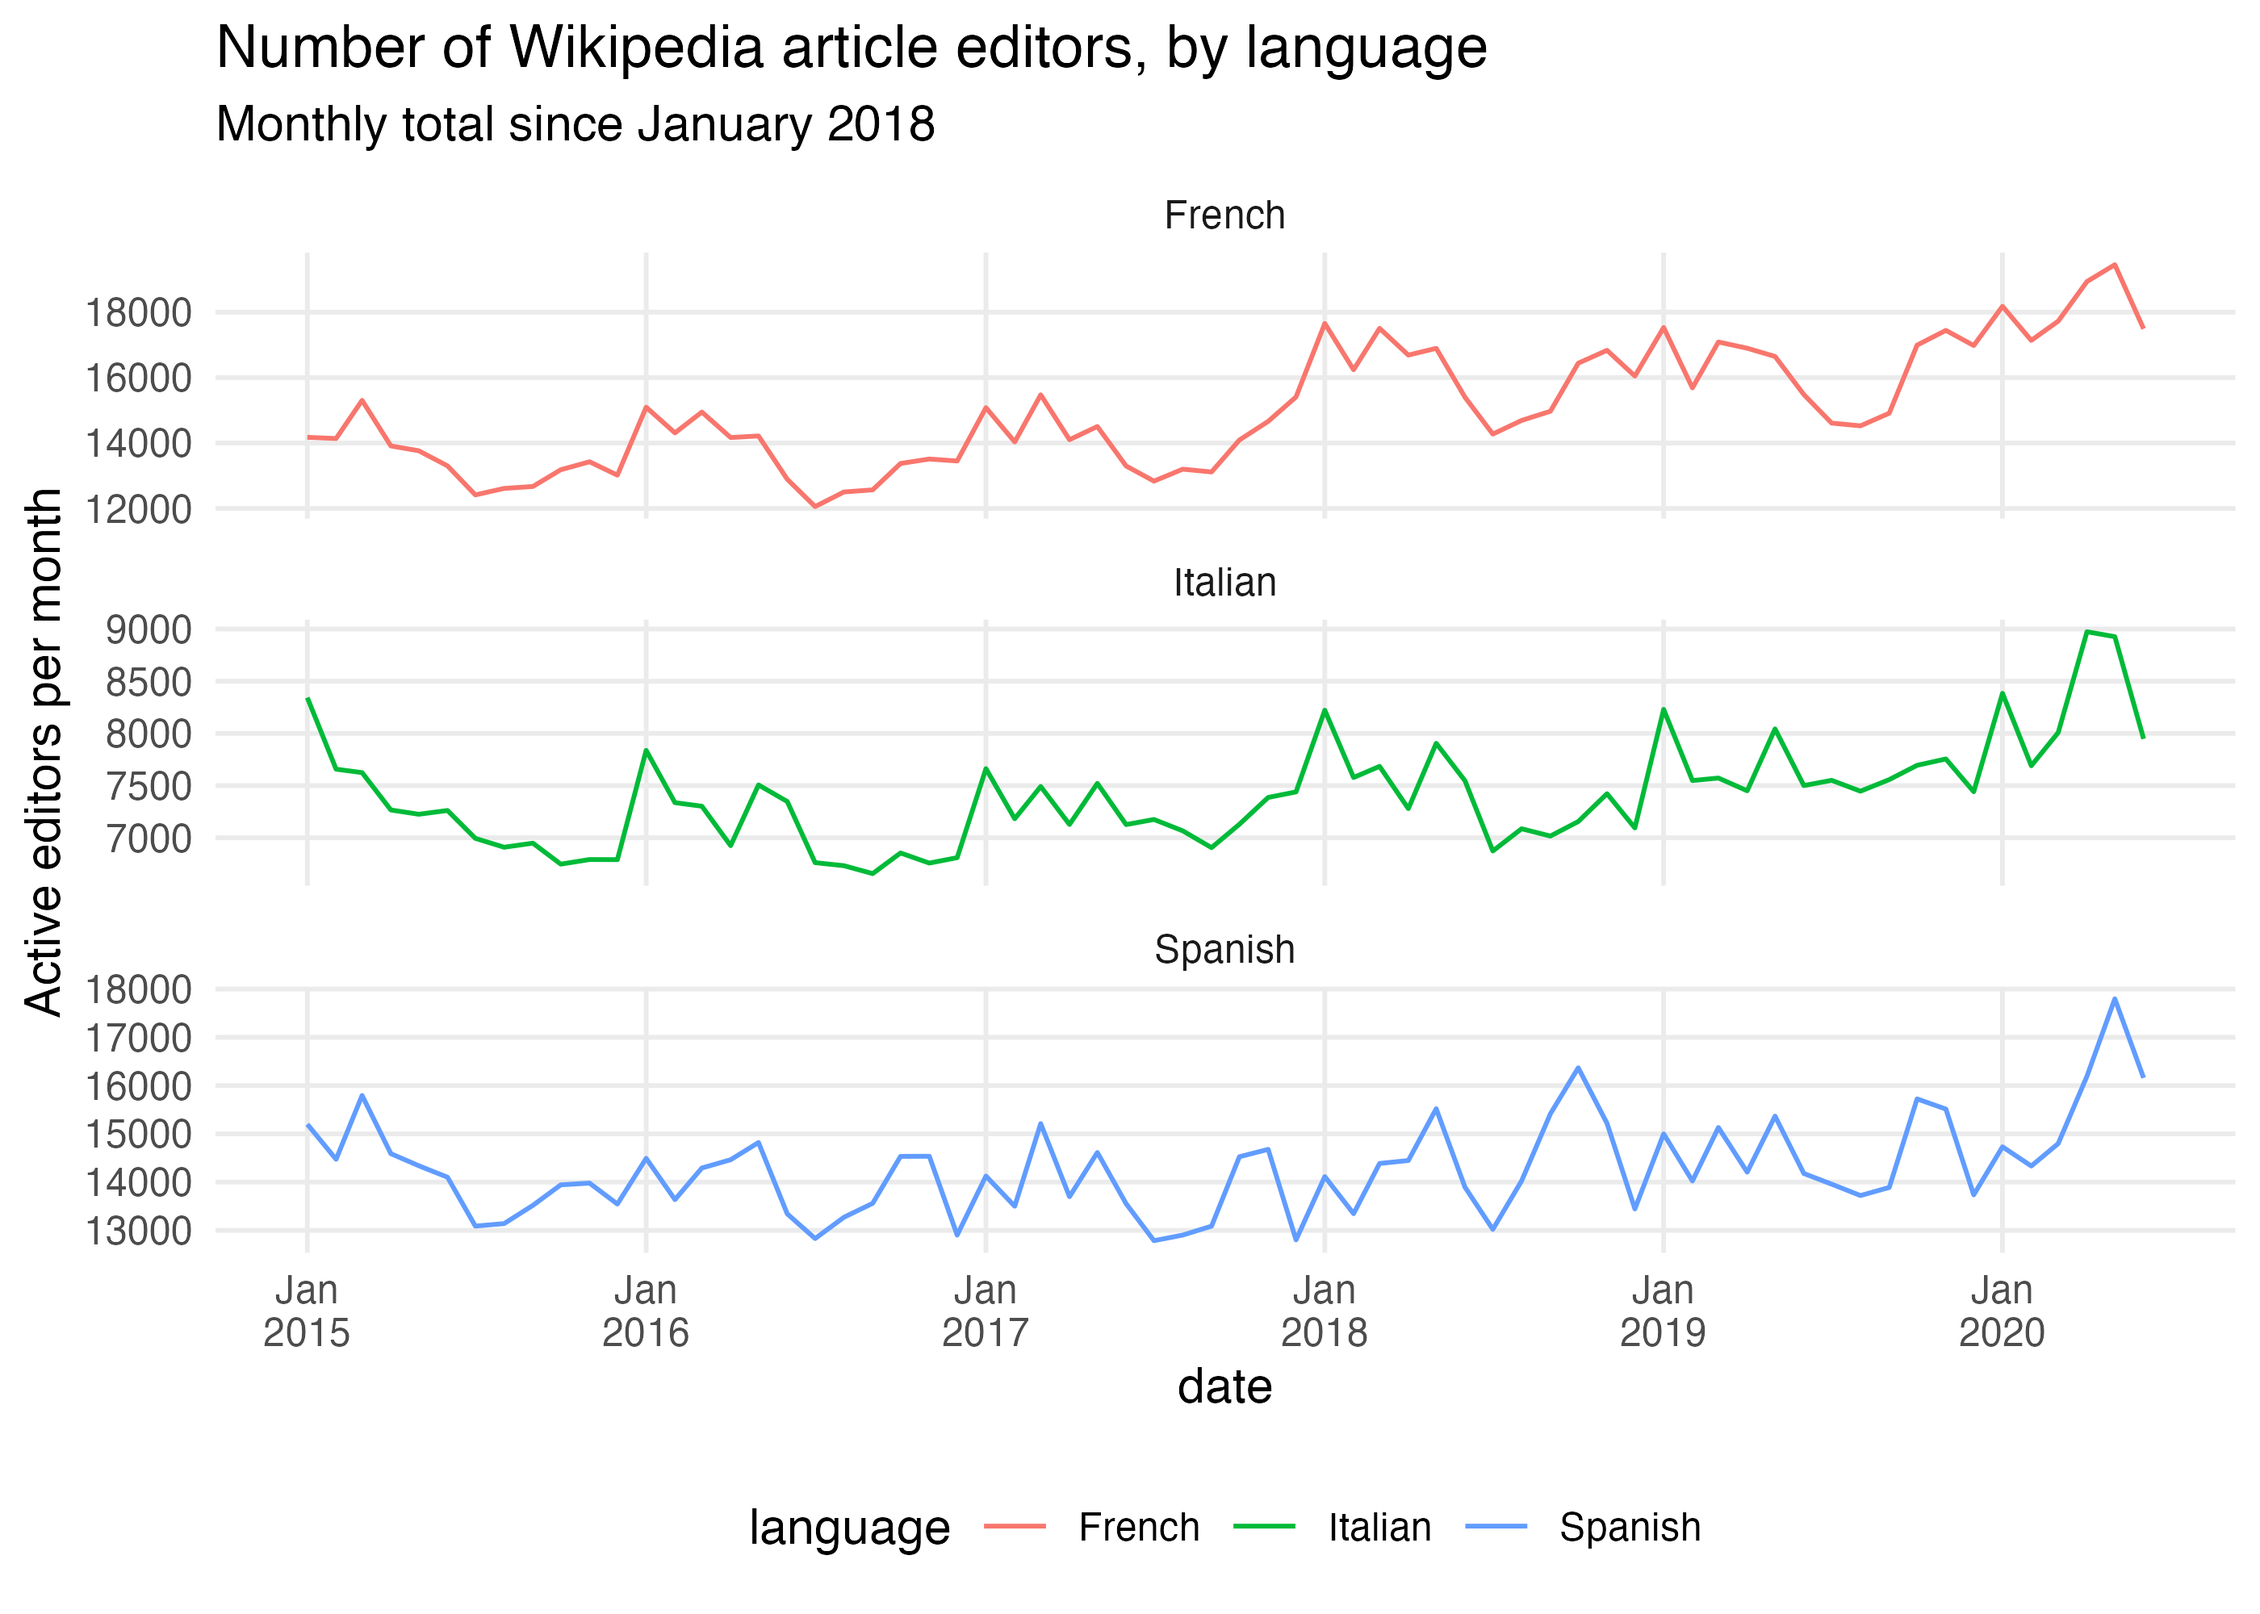
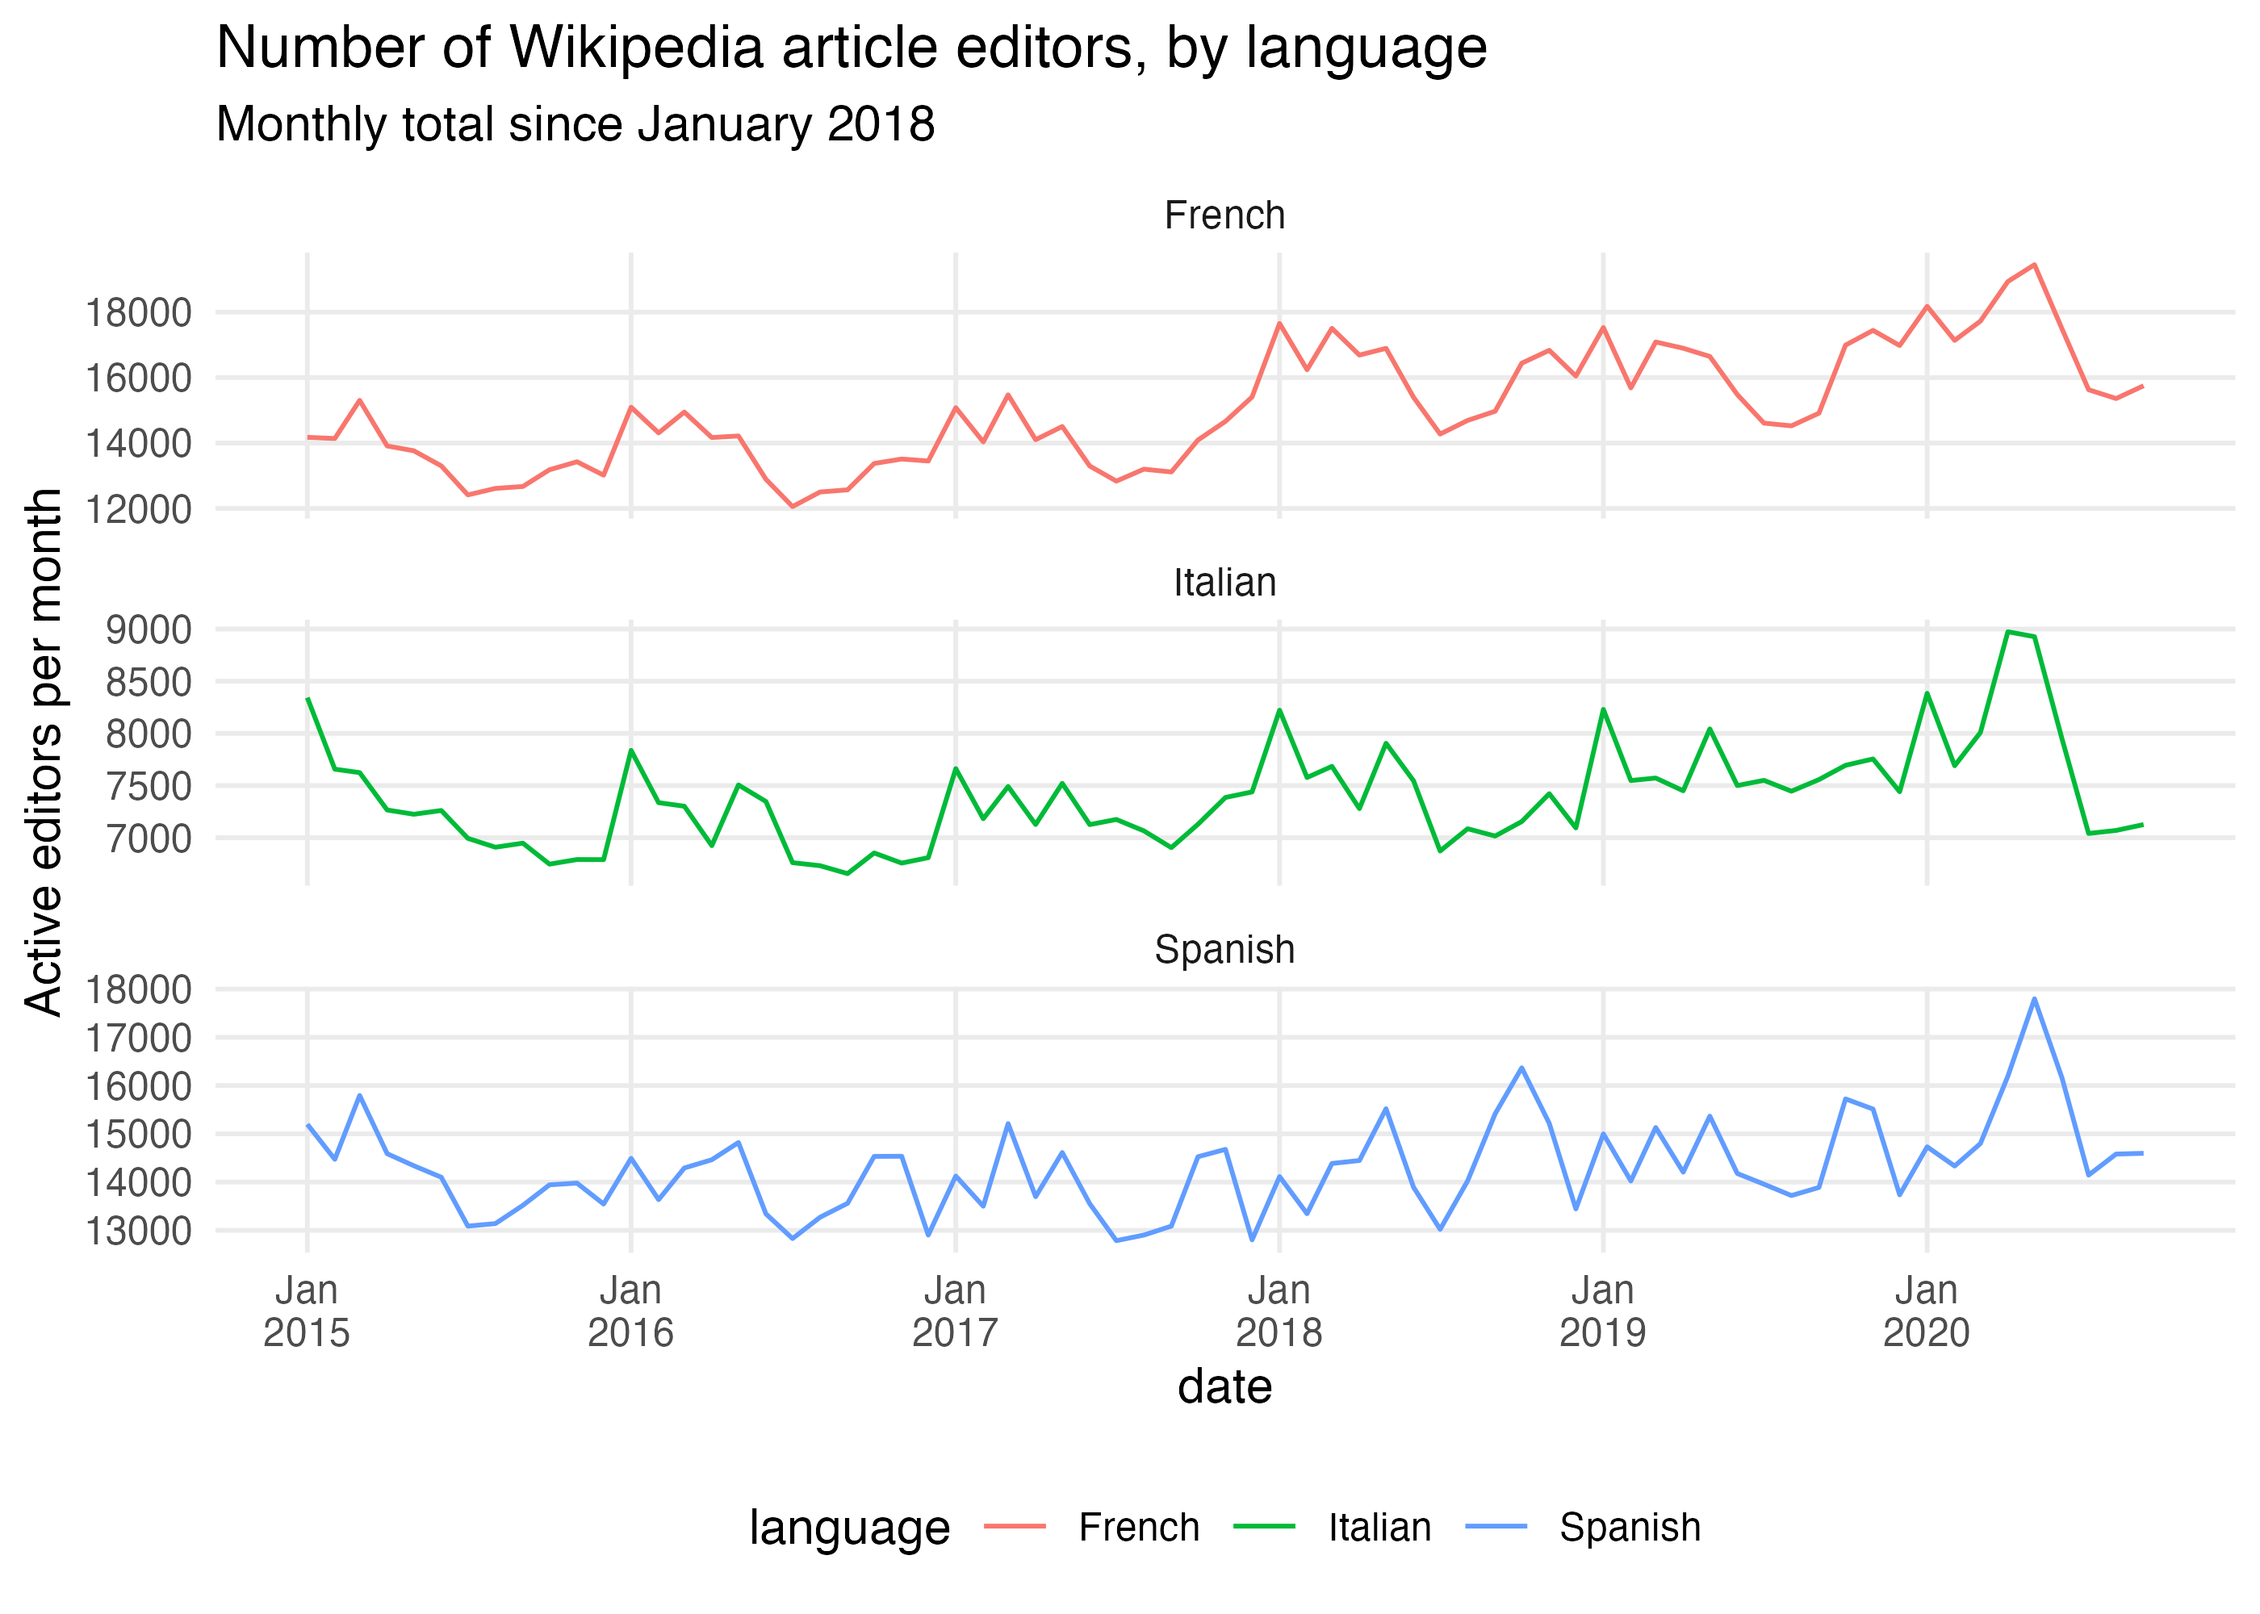
Built site for waxer: 0.9.6@

diff --git a/articles/waxer.html b/articles/waxer.html
@@ -289,7 +289,7 @@
 <span class="va">project_views</span> <span class="op">&lt;-</span> <span class="fu"><a href="https://purrr.tidyverse.org/reference/map.html">map_dfr</a></span><span class="op">(</span>
   <span class="va">projects</span>, <span class="va">wx_project_views</span>,
   access_method <span class="op">=</span> <span class="st">"desktop"</span>, agent_type <span class="op">=</span> <span class="st">"user"</span>,
-  granularity <span class="op">=</span> <span class="st">"monthly"</span>, start_date <span class="op">=</span> <span class="st">"20160101"</span>, end_date <span class="op">=</span> <span class="st">"20200701"</span>,
+  granularity <span class="op">=</span> <span class="st">"monthly"</span>, start_date <span class="op">=</span> <span class="st">"20160101"</span>, end_date <span class="op">=</span> <span class="st">"20201001"</span>,
   .id <span class="op">=</span> <span class="st">"language"</span>
 <span class="op">)</span></pre></div>
 <div class="sourceCode" id="cb15"><pre class="downlit">
@@ -423,7 +423,7 @@
   granularity <span class="op">=</span> <span class="st">"monthly"</span>,
   access_site <span class="op">=</span> <span class="st">"all"</span>,
   start_date <span class="op">=</span> <span class="st">"20180101"</span>,
-  end_date <span class="op">=</span> <span class="st">"20200630"</span>
+  end_date <span class="op">=</span> <span class="st">"20201031"</span>
 <span class="op">)</span></pre></div>
 <div class="sourceCode" id="cb23"><pre class="downlit">
 <span class="fu"><a href="https://rdrr.io/r/utils/head.html">head</a></span><span class="op">(</span><span class="va">unique_devices</span><span class="op">)</span>
@@ -542,7 +542,7 @@
   <span class="va">projects</span>,
   <span class="va">wx_active_editors</span>,
   editor_type <span class="op">=</span> <span class="st">"user"</span>, page_type <span class="op">=</span> <span class="st">"content"</span>,
-  start_date <span class="op">=</span> <span class="st">"20150101"</span>, end_date <span class="op">=</span> <span class="st">"20200701"</span>,
+  start_date <span class="op">=</span> <span class="st">"20150101"</span>, end_date <span class="op">=</span> <span class="st">"20201001"</span>,
   granularity <span class="op">=</span> <span class="st">"monthly"</span>,
   .id <span class="op">=</span> <span class="st">"language"</span>
 <span class="op">)</span></pre></div>
@@ -603,19 +603,19 @@
   page_type <span class="op">=</span> <span class="st">"content"</span>, <span class="co"># focus on articles</span>
   granularity <span class="op">=</span> <span class="st">"monthly"</span>,
   start_date <span class="op">=</span> <span class="st">"20010501"</span>,
-  end_date <span class="op">=</span> <span class="st">"20200701"</span>
+  end_date <span class="op">=</span> <span class="st">"20201001"</span>
 <span class="op">)</span></pre></div>
 <div class="sourceCode" id="cb36"><pre class="downlit">
 <span class="fu"><a href="https://rdrr.io/r/utils/head.html">tail</a></span><span class="op">(</span><span class="va">total_pages</span><span class="op">)</span>
 <span class="co">#&gt; # A tibble: 6 x 5</span>
 <span class="co">#&gt;   project      date       total_pages existing_pages new_pages</span>
 <span class="co">#&gt;   &lt;chr&gt;        &lt;date&gt;           &lt;int&gt;          &lt;dbl&gt;     &lt;int&gt;</span>
-<span class="co">#&gt; 1 ru.wikipedia 2020-01-01     1593732        1586465      7267</span>
-<span class="co">#&gt; 2 ru.wikipedia 2020-02-01     1600571        1593732      6839</span>
-<span class="co">#&gt; 3 ru.wikipedia 2020-03-01     1609477        1600571      8906</span>
-<span class="co">#&gt; 4 ru.wikipedia 2020-04-01     1619414        1609477      9937</span>
-<span class="co">#&gt; 5 ru.wikipedia 2020-05-01     1630572        1619414     11158</span>
-<span class="co">#&gt; 6 ru.wikipedia 2020-06-01     1639052        1630572      8480</span></pre></div>
+<span class="co">#&gt; 1 ru.wikipedia 2020-04-01     1619414        1609477      9937</span>
+<span class="co">#&gt; 2 ru.wikipedia 2020-05-01     1630572        1619414     11158</span>
+<span class="co">#&gt; 3 ru.wikipedia 2020-06-01     1639052        1630572      8480</span>
+<span class="co">#&gt; 4 ru.wikipedia 2020-07-01     1647665        1639052      8613</span>
+<span class="co">#&gt; 5 ru.wikipedia 2020-08-01     1656454        1647665      8789</span>
+<span class="co">#&gt; 6 ru.wikipedia 2020-09-01     1664568        1656454      8114</span></pre></div>
 <div class="sourceCode" id="cb37"><pre class="downlit">
 <span class="fu"><a href="https://ggplot2.tidyverse.org/reference/ggplot.html">ggplot</a></span><span class="op">(</span><span class="va">total_pages</span><span class="op">)</span> <span class="op">+</span>
   <span class="fu"><a href="https://ggplot2.tidyverse.org/reference/geom_path.html">geom_line</a></span><span class="op">(</span><span class="fu"><a href="https://ggplot2.tidyverse.org/reference/aes.html">aes</a></span><span class="op">(</span>x <span class="op">=</span> <span class="va">date</span>, y <span class="op">=</span> <span class="va">total_pages</span><span class="op">)</span><span class="op">)</span> <span class="op">+</span>
@@ -643,7 +643,7 @@
   <span class="st">"en.wikipedia"</span>,
   <span class="fu"><a href="https://rdrr.io/r/base/c.html">c</a></span><span class="op">(</span><span class="st">"Coronavirus disease 2019"</span>, <span class="st">"COVID-19 pandemic"</span><span class="op">)</span>,
   start_date <span class="op">=</span> <span class="st">"20200101"</span>,
-  end_date <span class="op">=</span> <span class="st">"20200701"</span>
+  end_date <span class="op">=</span> <span class="st">"20201031"</span>
 <span class="op">)</span></pre></div>
 <div class="sourceCode" id="cb39"><pre class="downlit">
 <span class="fu"><a href="https://rdrr.io/r/utils/head.html">head</a></span><span class="op">(</span><span class="va">page_edits</span><span class="op">)</span>
@@ -675,7 +675,7 @@
   <span class="va">projects</span>,
   <span class="va">wx_project_edits</span>,
   editor_type <span class="op">=</span> <span class="st">"all"</span>, page_type <span class="op">=</span> <span class="st">"content"</span>,
-  start_date <span class="op">=</span> <span class="st">"20200101"</span>, end_date <span class="op">=</span> <span class="st">"20200601"</span>,
+  start_date <span class="op">=</span> <span class="st">"20200101"</span>, end_date <span class="op">=</span> <span class="st">"20201001"</span>,
   granularity <span class="op">=</span> <span class="st">"daily"</span>,
   .id <span class="op">=</span> <span class="st">"language"</span>
 <span class="op">)</span>
@@ -683,7 +683,7 @@
   <span class="va">projects</span>,
   <span class="va">wx_active_editors</span>,
   editor_type <span class="op">=</span> <span class="st">"all"</span>, page_type <span class="op">=</span> <span class="st">"content"</span>,
-  start_date <span class="op">=</span> <span class="st">"20200101"</span>, end_date <span class="op">=</span> <span class="st">"20200601"</span>,
+  start_date <span class="op">=</span> <span class="st">"20200101"</span>, end_date <span class="op">=</span> <span class="st">"20201001"</span>,
   granularity <span class="op">=</span> <span class="st">"daily"</span>,
   .id <span class="op">=</span> <span class="st">"language"</span>
 <span class="op">)</span>

diff --git a/reference/index.html b/reference/index.html
@@ -313,6 +313,12 @@
           <p><code><a href="wx_mediawiki_api.html">wx_mediawiki_api()</a></code> </p>
         </td>
         <td><p>Generate a rate-limited MediaWiki API caller</p></td>
+      </tr><tr>
+        
+        <td>
+          <p><code><a href="wx_bucket_items.html">wx_bucket_items()</a></code> </p>
+        </td>
+        <td><p>Bucket items</p></td>
       </tr>
     </tbody>
     </table>
